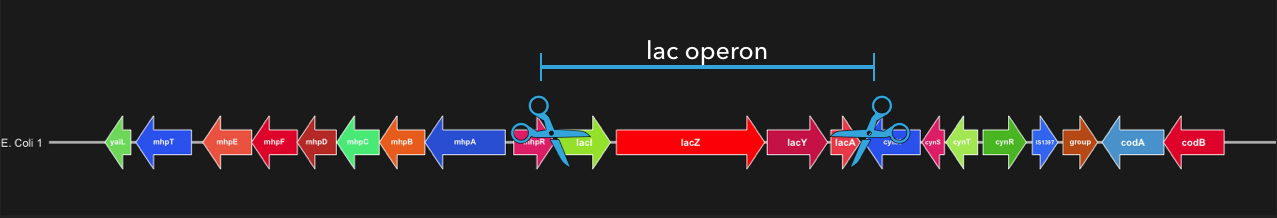
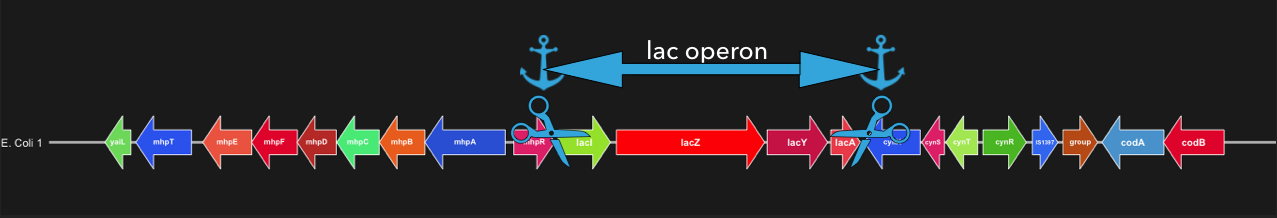
`

Changed region(s): [[0.397, 0.1651, 0.733, 0.4128]]

diff --git a/_posts/anvio/2019-10-17-export-locus.md b/_posts/anvio/2019-10-17-export-locus.md
@@ -1,14 +1,16 @@
 ---
 layout: post
 authors: [matt, evan, alon]
-title: "Extract loci from genomes and metagenomes with anvi'o!"
-excerpt: "How to locate and extract target genetic loci from larger genetic context."
+title: "Extract loci from genomes and metagenomes with anvi'o"
+excerpt: "A flexible and scalable approach to locate and extract target genetic loci from larger genetic contexts."
 modified: 2019-10-08
 tags: []
 categories: [anvio]
 comments: true
 redirect_from:
-  - /scg-taxonomy/
+  - /export-loci/
+image:
+    feature: /images/export-locus-sketch.png
 ---
 
 {% include _toc.html %}
@@ -20,13 +22,13 @@ This tutorial is for `v6` and later versions of anvi'o. You can identify which v
 
 ## Introduction
 
-Some genetic analyses call for the comparison of specific genetic loci between genomes. For example, one may be interested in investigating evidence for adaptive evolution of the lac operon between different _E. coli_ strains. The first step to this analysis would be to extract the various lac operon from a collection of _E. coli_ genomes. 
+Some genetic analyses call for the comparison of specific genetic loci between genomes. For example, one may be interested in investigating evidence for adaptive evolution of the lac operon between different _E. coli_ strains, and the first step to this analysis would be to extract the various lac operon from a collection of _E. coli_ genomes. 
 
-To address this example and other genomic loci analyses alike, we present the tool [anvi-export-locus](/software/anvio/vignette/#anvi-export-locus)!
+To address this example and other genomic loci analyses alike, we present [anvi-export-locus](/software/anvio/vignette/#anvi-export-locus), an anvi'o program that enables you to target regions of interest across genomes and/or metagenomic assemblies, and report sequences and/or anvi'o contigs databases for cut loci for downstream analyses.
 
 Briefly, `anvi-export-locus` cuts out loci using two approaches: `default-mode` or what we call `flank-mode`. In the `default-mode`, the tool locates a designated anchor gene, then cuts upstream and downstream based on user-defined input. Notice that what is "upstream" and what is "downstream" is determined according to the direction of the anchor gene, i.e., if the anchor gene is in the reverse direction, then "upstream" would mean genes that have higher gene callers ids, and vice versa. On the other hand, `flank-mode` finds designated genes that define the left and right boundaries of the target locus, then cuts in between them. Genes to locate locus anchors or flanking genes are defined through their specific ids in anvi'o or through `search-terms` that query functional annotations or HMM hits stored in your contigs database.
 
-To explore the functionality of `anvi-export-locus`, let's extract the lac operon from the larger genomic context of _E. coli_ genomes!
+The purpose of this article is to demonstrate the functionality of `anvi-export-locus` using a simple and reproducible example: extracting the lac operon from the larger genomic context of _E. coli_ genomes.
 
 <div class="extra-info" markdown="1">
 
@@ -42,9 +44,9 @@ If you are using [external gene calls](https://github.com/merenlab/anvio/issues/
 First, let's download Genbank files for a few representative _E. coli_ strains:
 
 {:.notice}
-Alon has a great tutorial [here](http://merenlab.org/2019/03/14/ncbi-genome-download-magic/) describing how to automagically download genomes from NCBI. We'll be using this tool to download a few _E. coli_ genomes. If you have any questions regarding downloading genomes, please refer to [Alon's tutorial](http://merenlab.org/2019/03/14/ncbi-genome-download-magic/).
+Please see the tutorial [here](http://merenlab.org/2019/03/14/ncbi-genome-download-magic/) describing how to automagically download genomes from NCBI and include them in anvi'o workflows. We'll be using this tool to download a few _E. coli_ genomes.
 
-```{bash}
+```bash
 # Set working directory variable for later
 WD=$(pwd)
 
@@ -57,17 +59,22 @@ ncbi-genome-download bacteria \
 ```
 
 Next, we'll make FASTAs, external gene calls, and functional annotations for all the Genbanks we just downloaded:
-```{bash}
+
+```bash
 anvi-script-process-genbank-metadata -m metadata.txt \
                                      --output-dir ecoli \
                                      --output-fasta-txt ecoli.txt
 ```
 
+Just to have an idea about what is going on, please take a look at the output file `ecoli.txt`. We will use this file to create our contigs databases for these genomes.
+
 ## Generate contigs DBs
-Now we need to get the fasta files into an anvi'o friendly format. To do this, we'll convert the files we made in the previous step into contigs DBs using the [anvi'o contigs workflow](http://merenlab.org/2018/07/09/anvio-snakemake-workflows/#contigs-workflow). 
+
+Now we need to get the fasta files into an anvi'o friendly format. There are many ways to turn your FASTA files into anvi'o contigs databases, but here we will follow our best practices and process all our files using the [anvi'o contigs workflow](http://merenlab.org/2018/07/09/anvio-snakemake-workflows/#contigs-workflow). 
 
 First, make a json file for the anvio workflow called `contigs.json`:
-```{bash}
+
+```bash
 {
     "fasta_txt": "ecoli.txt"
 }
@@ -77,7 +84,7 @@ Then run the contigs workflow!
 
 {:.notice}
 This step may take a while depending on your computational resources. If you have any questions about running anvi'o workflows please refer to this tutorial [here](http://merenlab.org/2018/07/09/anvio-snakemake-workflows/#a-general-introduction-to-essentials). If you access to an HPC or cluster computer, check out additional parameters  [here](http://merenlab.org/2018/07/09/anvio-snakemake-workflows/#running-workflows-on-a-cluster).
-```{bash}
+```bash
 anvi-run-workflow -w contigs \
                   -c contigs.json \
                   --additional-params \
@@ -97,8 +104,18 @@ Let's get cutting!
 
 ## Default mode
 
-First, we'll use `default-mode` to extract the general genomic neighborhood around the lac operon in each genome:
-```{bash}
+First, we'll use `default-mode` to extract the general genomic neighborhood around the lac operon. To cut the lac operon from a single genome, we would have run this command in this general form:
+
+```bash
+anvi-export-locus -c MY_GENOME.db \
+                  --num-genes 10,10 \
+                  --search-term "lacZ" \
+                  -O MY_GENOME_lac_locus
+```
+
+But since we have multiple genomes we wish to study all at once, we will build a `for` loop in BASH to make life easier (while making everything more reproducible, and less error-prone at the same time):
+
+```bash
 mkdir 03_LOCI
 
 cd 03_LOCI
@@ -117,14 +134,15 @@ done
 `--search-term` is NOT case sensitive unless you surround your term in quotes (e.g. `--search-term "lacZ"`)
 
 Here is a visual representation of how `anvi-export-locus` found the anchor gene "lacZ" the cuts 10 genes upstread and downstream.
-[![export-locus-defaultmode](/images/export-locus-defaultmode.png)](export-locus-defaultmode.png){:.center-img .width-100}
+[![export-locus-defaultmode](/images/export-locus-defaultmode.png)](/images/export-locus-defaultmode.png){:.center-img .width-100}
 
 ## Flank-mode
 
 Awesome, now we have some smaller contigs that contain the lac operon. BUT, we also grabbed some extra genes that don't belong to the operon. Let's use `--flank-mode` to trim the loci to just contain the lac operon.
 
-To do this, give `anvi-export-locus` two flanking `--search-term`s: lacI and lacA
-```{bash}
+To do this, give `anvi-export-locus` two flanking search-terms: `lacI` and `lacA`
+
+```bash
 for GENOME in `ls "${WD}"/03_LOCI/*.db`;
 do
     FNAME=$(basename "${GENOME}" _lac_locus_0001.db)
@@ -139,13 +157,12 @@ done
 `--flank-mode` requires flanking genes to be single copies in the contig it's searching. If your locus of interest does not have fixed coordinates in your genomes or metagenomes, you may need to adjust the `-search-term`s on a case by case bases. 
 
 Here is a visual representation of how `flank-mode` cuts out a locus using flanking genes.
-[![export-locus-defaultmode](/images/export-locus-flankmode.png)](export-locus-flankmode.png){:.center-img .width-100}
+[![export-locus-defaultmode](/images/export-locus-flankmode.png)](/images/export-locus-flankmode.png){:.center-img .width-100}
 
 ## Conclusion
 
-[anvi-export-locus](/software/anvio/vignette/#anvi-export-locus) is a flexible tool that allows you to extract genomic loci from genomes and metagenomes. In this tutorial, we looked at the classic lac operon in _E. coli_ genomes, but this tool can also be unleashed on any genomic loci and even metagenomic assemblies! For instance, one could extract specific cellulose synthesis operons from soil metagenomes.
+[anvi-export-locus](/software/anvio/vignette/#anvi-export-locus) is a flexible tool that allows you to extract genomic loci from genomes and metagenomes. In this tutorial, we looked at the classic lac operon in _E. coli_ genomes, but this tool can also be unleashed on any loci in genomes or metagenomic assemblies.
 
 We hope you find amazing applications for this tool. If you have a suggestion or question please do not hesitate to contact us. Also, please report any bugs as an issue on the anvi'o [Github repository](https://github.com/merenlab/anvio).
 
 {% include _join-anvio-slack.html %}
-
